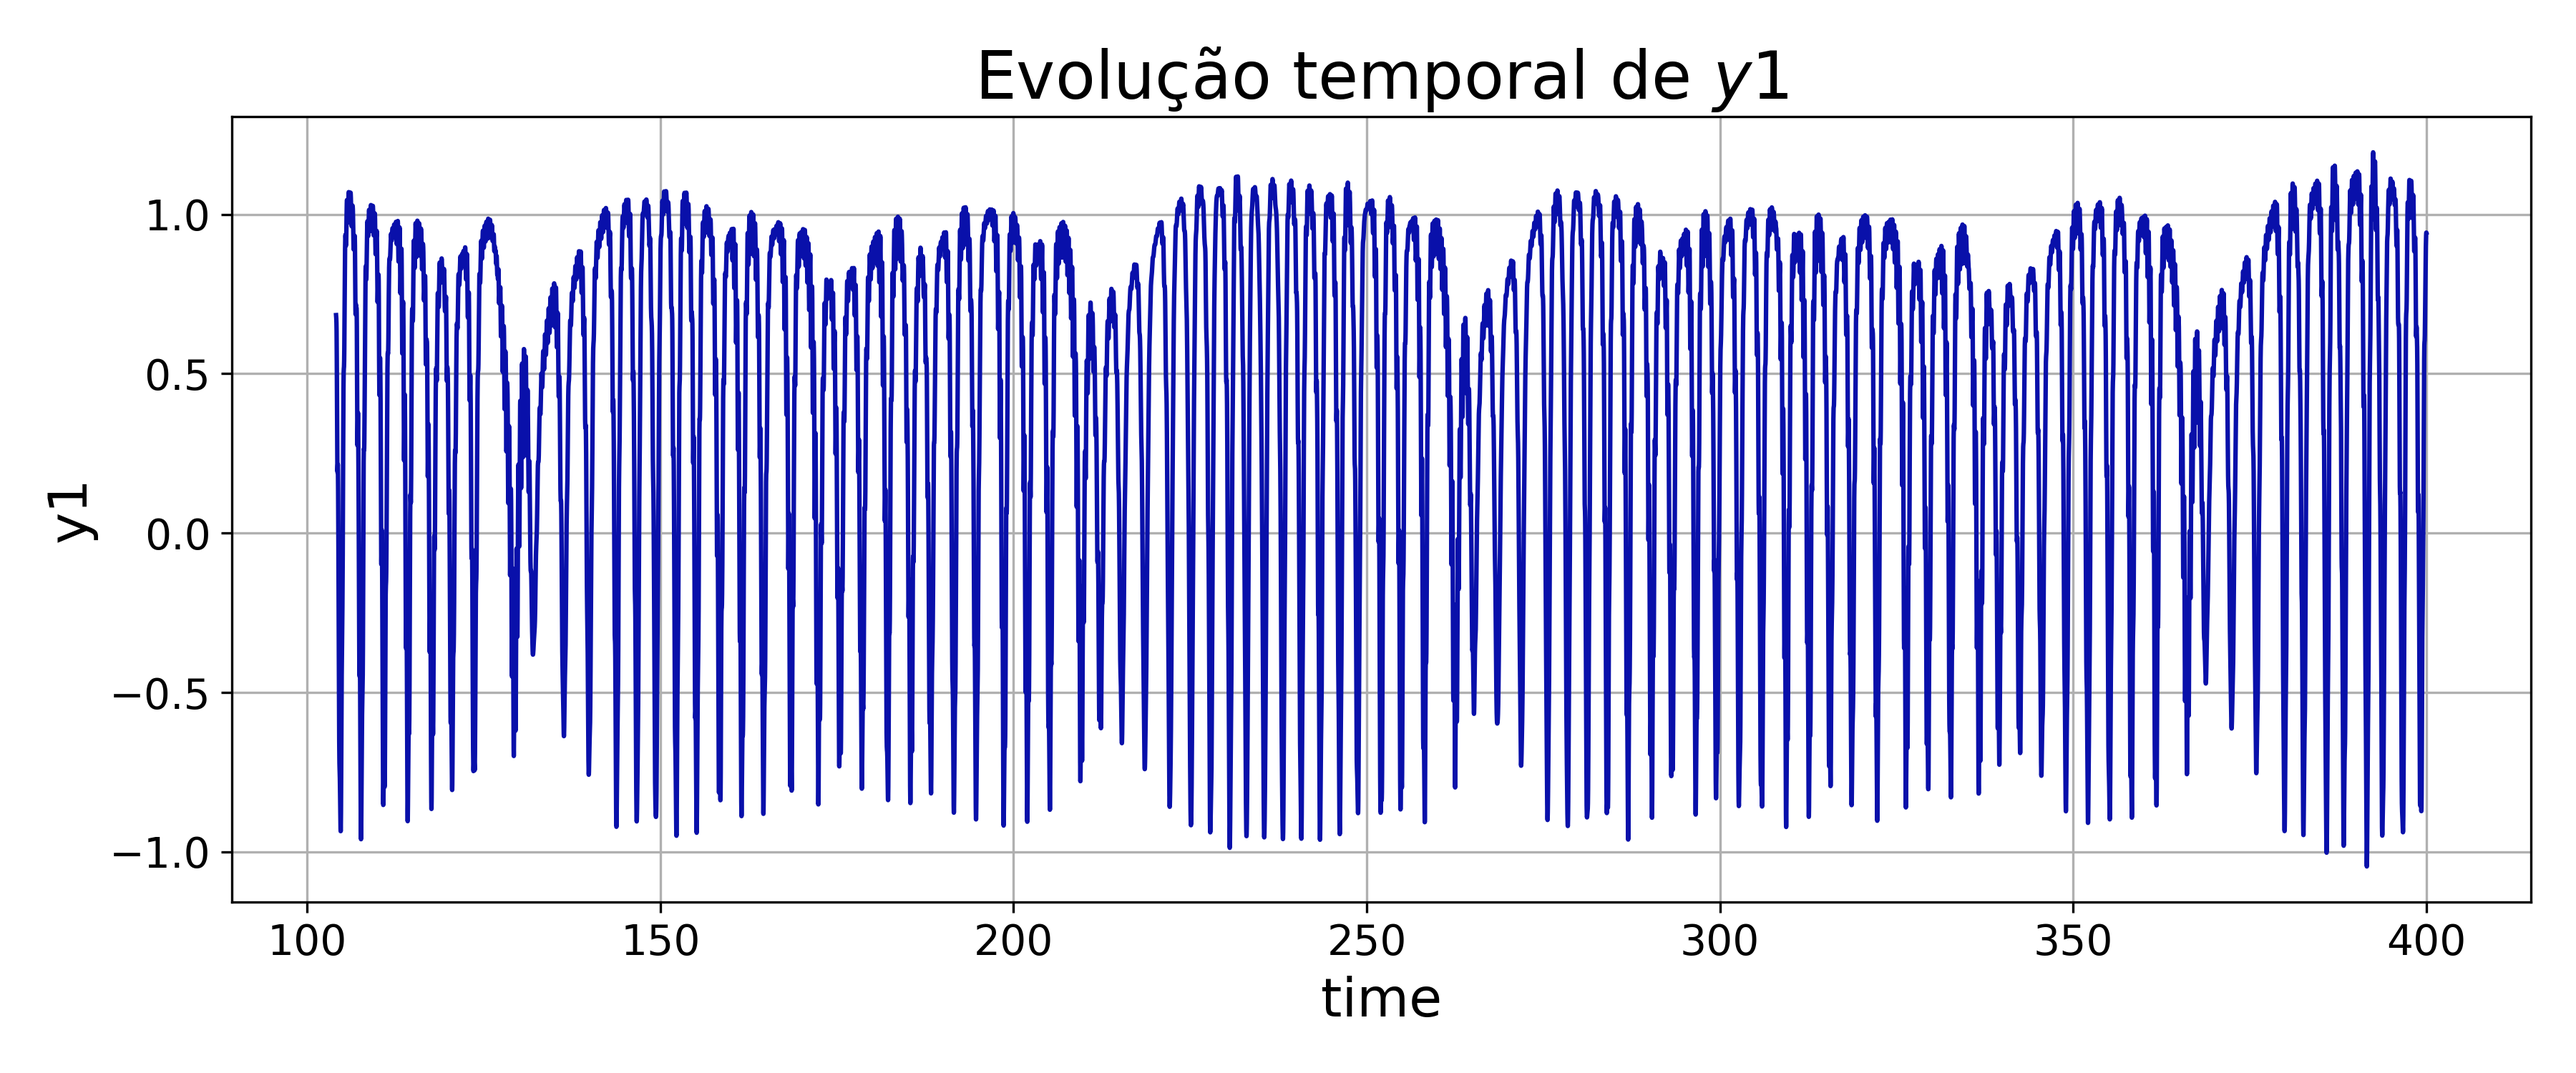
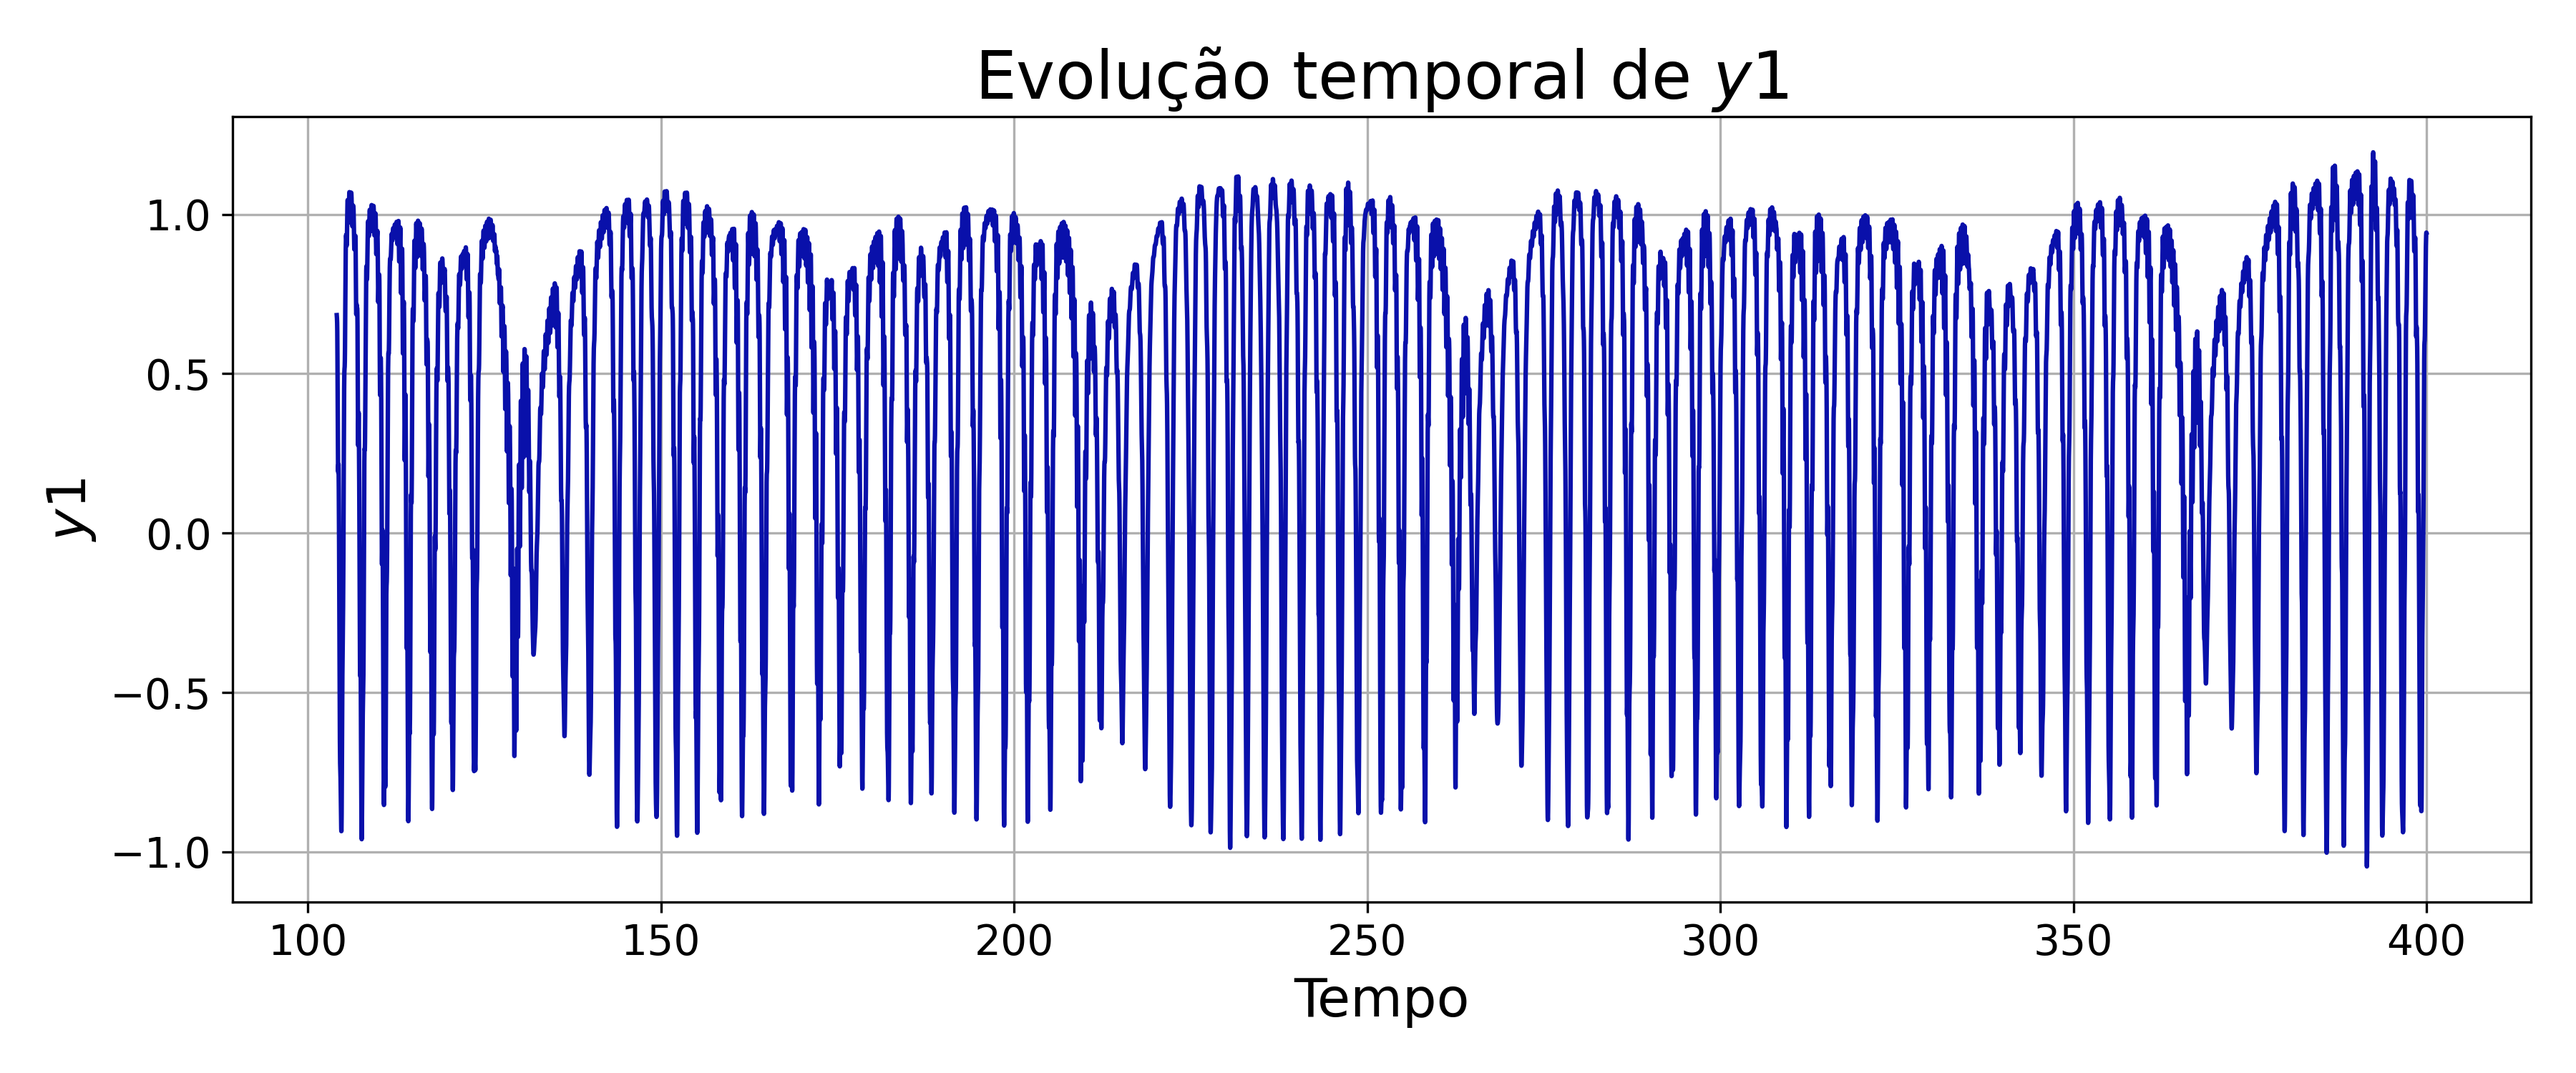
Fechamento de imagens

diff --git a/06_LORENZ_80/plot.py b/06_LORENZ_80/plot.py
@@ -53,8 +53,8 @@ def plot_y2y3(df, model_type):
     plt.figure(figsize=(12, 5))
     plt.plot(y3, y2, color="#0910aa")
     plt.title("Projeção bidimensional $y_3$ x $y_2$")
-    plt.xlabel("y3")
-    plt.ylabel("y2")
+    plt.xlabel("$y_3$")
+    plt.ylabel("$y_2$")
     plt.grid(True)
     plt.savefig(outdir / filename)
     plt.close()
@@ -71,8 +71,8 @@ def plot_y1y3(df, model_type):
     plt.figure(figsize=(12, 5))
     plt.plot(y1, y3, color="#0910aa")
     plt.title("Projeção bidimensional $y_1$ x $y_3$")
-    plt.xlabel("y1")
-    plt.ylabel("y3")
+    plt.xlabel("$y_1$")
+    plt.ylabel("$y_3$")
     plt.grid(True)
     plt.savefig(outdir / filename)
     plt.close()
@@ -89,8 +89,8 @@ def plot_y1y2(df, model_type):
     plt.figure(figsize=(12, 5))
     plt.plot(y1, y2, color="#0910aa")
     plt.title("Projeção bidimensional $y_1$ x $y_2$")
-    plt.xlabel("y1")
-    plt.ylabel("y2")
+    plt.xlabel("$y_1$")
+    plt.ylabel("$y_2$")
     plt.grid(True)
     plt.savefig(outdir / filename)
     plt.close()
@@ -100,7 +100,7 @@ def plot_y1y2(df, model_type):
 def plot_xyz_temporal(df, model_type):
     t, x1, y1, z1 = df["time"], df["x1"], df["y1"], df["z1"]
 
-    prefix = get_model_prefix(model_type)    # Plot
+    prefix = get_model_prefix(model_type)
     filename = f"{prefix}time_x1y1z1.png"
     outdir = get_output_dir(model_type)
 
@@ -142,8 +142,8 @@ def plot_temporal(df, model_type, yi):
     plt.figure(figsize=(12, 5))
     plt.plot(t, y, color="#0910aa")
     plt.title(f"Evolução temporal de ${ylabel}$")
-    plt.xlabel("time")
-    plt.ylabel(ylabel)
+    plt.xlabel("Tempo")
+    plt.ylabel(f"${ylabel}$")
     plt.grid(True)
     plt.savefig(outdir / filename)
     
@@ -183,7 +183,7 @@ def evolucao_temporal_y(df, model_type):
             ax.tick_params(axis="x", labelbottom=False)
 
     axes[0].set_title("Séries temporais empilhadas de $y_1,y_2,y_3$", pad=8)
-    axes[-1].set_xlabel("time")
+    axes[-1].set_xlabel("Tempo")
     plt.subplots_adjust(hspace=0.12, top=0.95, bottom=0.07, left=0.07, right=0.985)
     fig.savefig(outdir / filename)
     plt.close(fig)

diff --git a/07_STOCK_MARKET_EXEMPLE/plot_x.py b/07_STOCK_MARKET_EXEMPLE/plot_x.py
@@ -1,6 +1,20 @@
 import pandas as pd
 import matplotlib.pyplot as plt
 
+# Configurações de estilo do matplotlib
+plt.rcParams.update({
+    "font.size": 14,
+    "axes.titlesize": 22,
+    "axes.labelsize": 18,
+    "xtick.labelsize": 14,
+    "ytick.labelsize": 14,
+    "legend.fontsize": 14,
+    "lines.linewidth": 1.5,
+    "savefig.dpi": 300,
+    "figure.autolayout": True,
+    "axes.grid": True
+})
+
 # Ler dados do CSV
 df = pd.read_csv("stockmarket.csv")
 
@@ -12,9 +26,6 @@ plt.ylabel('Peço da Ação S(t)')
 plt.title('Evolução do preço da ação ao longo de 1 ano')
 plt.grid(True, alpha=0.3)
 plt.tight_layout()
-
-for t in [i / 10 for i in range(1, 10)]:
-    plt.axvline(x=t, color='gray', linestyle='--', linewidth=1.5, alpha=0.75)
 
 # Salvar figura
 fig_path = 'stock_market_evolution.png'
